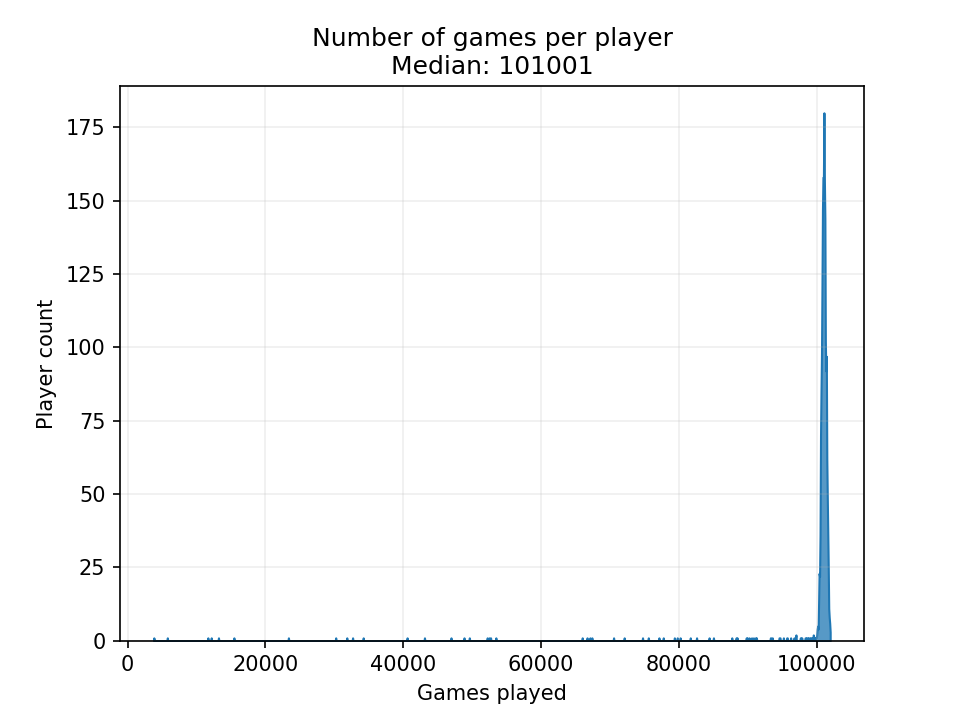
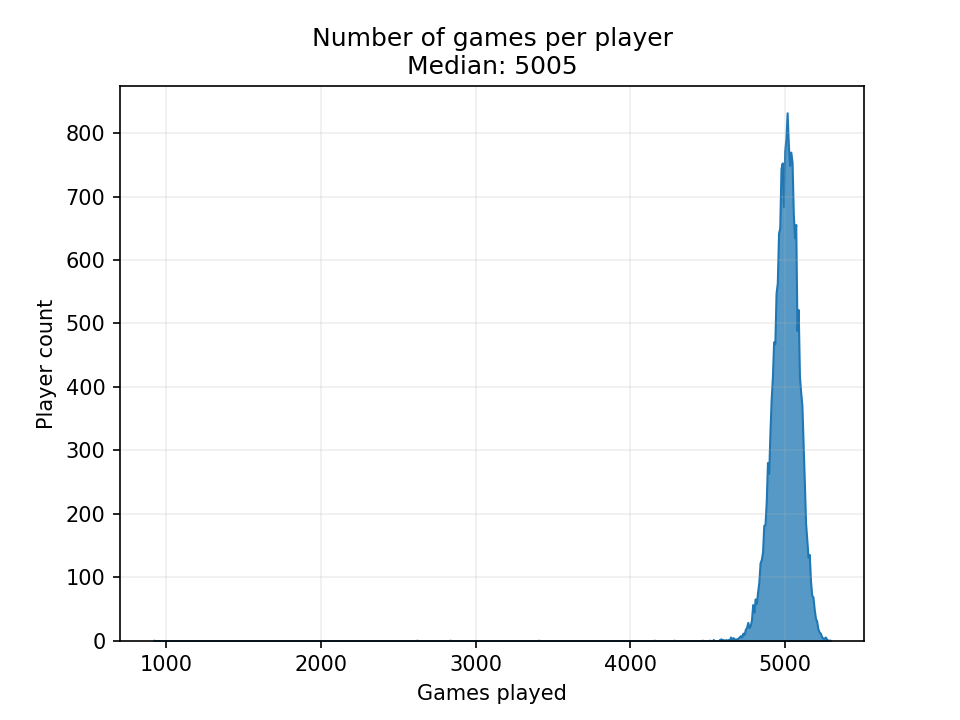
another day

diff --git a/main.cpp b/main.cpp
@@ -8,7 +8,8 @@
 
 #include "mutils.h" // adds "print" and "str" fuction templates
 
-std::vector<double> chance_differences;
+std::vector<double> prediction_difference;
+
 //
 // PLAYER CLASS
 //
@@ -18,7 +19,7 @@ public:
     // Actual player skill
     double skill;
     // MMR assigned by the matchmaker
-    double mmr = 2000;
+    double mmr = 2820 / 2.2;
     // Vector of opponent skills. It's used to define the matchmaker accuracy.
     std::vector<double> opponent_history;
     // MMR history
@@ -51,16 +52,16 @@ public:
 //
 // NAIVE MATCHMAKING STRATEGY
 //
-class naive_strategy : public MatchmakingStrategy
+class Naive_strategy : public MatchmakingStrategy
 {
-    const int offset = 1; // how much MMR changes for win/loss
+    const int offset = 10; // how much MMR changes for win/loss
 
 public:
     // Checks if the match between players would be a good based on MMR
     // More complicated version would take into account search time, latency, etc.
     bool good_match(Player &p1, Player &p2)
     {
-        return std::abs(p1.mmr - p2.mmr) < offset * 2;
+        return std::abs(p1.mmr - p2.mmr) < offset * 5;
     }
 
     // Updates MMR
@@ -70,6 +71,9 @@ public:
         winner.mmr_history.push_back(winner.mmr);
         loser.opponent_history.push_back(winner.skill);
         loser.mmr_history.push_back(loser.mmr);
+
+        winner.predicted_chances.push_back(0.5);
+        loser.predicted_chances.push_back(0.5);
 
         winner.mmr += offset;
         loser.mmr -= offset;
@@ -85,7 +89,7 @@ class ELO_strategy : public MatchmakingStrategy
     // ** TEST WITH K(player.mmr)
     // ** TRY CHANGING So diff in chances is more aggressive (more points if chances are skewed more?)
 
-    const double K = 32;
+    const double K = 10;
 
 public:
     // Checks if the match between players would be a good based on MMR
@@ -114,8 +118,7 @@ public:
         winner.mmr += K * El;
         loser.mmr -= K * El;
 
-        double diff = Ew - actual_chances;
-        chance_differences.push_back(diff * diff);
+        prediction_difference.push_back(std::abs(actual_chances - Ew));
     }
 };
 
@@ -137,7 +140,7 @@ public:
         // std::default_random_engine new_RNG(std::chrono::steady_clock::now().time_since_epoch().count()); //fixed seed for now
         std::default_random_engine new_RNG(1);
         RNG = new_RNG;
-        std::normal_distribution<> new_skill_distribution(1, 0.4); // mean, std
+        std::normal_distribution<> new_skill_distribution(2820 / 2.2, 800 / 2.2); // mean, std
         skill_distribution = new_skill_distribution;
     }
 
@@ -164,7 +167,8 @@ public:
     double get_chance(Player &p1, Player &p2)
     {
         // This depends on how we have chosen to distribute skill
-        double chance = 1 / (1 + exp(-10 * (p1.skill - p2.skill)));
+        // double chance = 1 / (1 + exp(-10 * (p1.skill - p2.skill)));
+        double chance = 1 / (1 + exp((p2.skill - p1.skill) / 173.718)); // ELO points equivalent
         // printf("P1s: %f vs P2s: %f --> %f%% for P1 \n", p1.skill, p2.skill, 100 * chance);
         return chance;
     }
@@ -172,11 +176,11 @@ public:
     void resolve_game(Player &p1, Player &p2)
     {
         // printf("Playing a game between #%p (%i MMR) and #%p (%i MMR)\n", &p1, p1.mmr, &p2, p2.mmr);
-
-        if (RNG() % 10000 <= 10000 * get_chance(p1, p2))
-            strategy->update_mmr(p1, p2, get_chance(p1, p2));
+        double p1_chance = get_chance(p1, p2);
+        if (RNG() % 10000 <= 10000 * p1_chance)
+            strategy->update_mmr(p1, p2, p1_chance);
         else
-            strategy->update_mmr(p2, p1, get_chance(p2, p1));
+            strategy->update_mmr(p2, p1, 1 - p1_chance);
     }
 
     // Runs the simulation for `number` of games
@@ -213,22 +217,6 @@ public:
             // }
         }
     }
-
-    // Calculates inaccuracy of matchmaking (sum of square of skill differences / number of players)
-    // Accurate only for the same amount of games (as early games will be more inaccurate)
-    double get_inaccuracy()
-    {
-        double total = 0;
-        for (const Player &player : players)
-        {
-            for (const double &opponent : player.opponent_history)
-            {
-                double diff = opponent - player.skill;
-                total += diff * diff;
-            }
-        }
-        return total / players.size();
-    }
 };
 
 // Saves player data into a json file for additional analysis
@@ -259,6 +247,11 @@ void save_player_data(const std::vector<Player> &players)
     }
 }
 
+std::vector<double> get_prediction_diff()
+{
+    return prediction_difference;
+}
+
 std::vector<Player> run_sim(int players, int iterations)
 {
     Timeit t;
@@ -267,8 +260,5 @@ std::vector<Player> run_sim(int players, int iterations)
     simulation.add_players(players);
     simulation.play_games(iterations);
     print("Pure simulation finished in", t.ms() / 1000, "seconds");
-    // double inaccuracy = simulation.get_inaccuracy();
-    // print("Inaccuracy:", inaccuracy);
-    // system("python analyse.py");
     return simulation.players;
 }

diff --git a/analyse.py b/analyse.py
@@ -1,28 +1,71 @@
+import math
+import statistics
+import time
+
 import matplotlib.pyplot as plt
 import seaborn as sns
-import statistics
-import math
-import time
 
 import psimulation
 
 ### RUN SIMULATION
 start = time.time()
-data = psimulation.run_simulation(2000, 100000000)
+data = psimulation.run_simulation(20000, 50000000)
+prediction_differences = psimulation.export_prediction_diff()
 print(f"Simulation finished in {time.time()-start:.3f} seconds")
-start = time.time()
 
 ### PLOTTING
+start = time.time()
 plt.rcParams['figure.dpi'] = 150
 
 
 def chance_skill(diff):
     """ Returns the chance for a player to win based on skill difference"""
-    return 1 / (1 + math.exp(-10 * (diff)))
+    return 1 / (1 + math.exp(-diff / 173.718))  # ELO points
+
+
+## PREDICTION DIFFERENCES
+def plot_prediction_differences():
+    plt.figure().clear()
+    factor = 50
+    L = int(len(prediction_differences) / factor)
+    means = []
+    stdevs = [[], []]
+    x = []
+    for i in range(factor):
+        slice = prediction_differences[L * i:L * (i + 1)]
+        means.append(statistics.mean(slice))
+        stdevs[0].append(means[-1] - statistics.stdev(slice))
+        stdevs[1].append(means[-1] + statistics.stdev(slice))
+        x.append(L * i)
+
+    fig, ax = plt.subplots(1, 1)
+    ax.text(0,
+            means[0] + 0.01,
+            f"{means[0]:.2f}",
+            color="#1968cf",
+            ha="center")
+    ax.text(x[-1],
+            means[-1] + 0.01,
+            f"{means[-1]:.2f}",
+            color="#1968cf",
+            ha="center")
+
+    ax.plot(x, means)
+    ax.fill_between(x, stdevs[0], stdevs[1], color="#1968cf", alpha=0.2)
+    ax.set_ylabel("Error in matchmaking")
+    ax.set_xlabel("Games")
+    plt.grid(alpha=0.2)
+    ax.set_title("How matchmaking improves (moving average of errors)")
+    plt.tight_layout()
+    plt.savefig("prediction_differences.png")
+
+
+plot_prediction_differences()
 
 
 ## PLAYER HISTORY
 def plot_mmr_history(DATAVALUES=6):
+    plt.figure().clear()
     unique_opponents = [len(set(i["opponent_history"])) for i in data]
     extremes = [
         p for p in sorted(data, key=lambda x: x["skill"], reverse=True)
@@ -121,7 +164,6 @@ def plot_mmr_history(DATAVALUES=6):
     ax[1].set_ylabel("Opponent skill")
     ax[1].set_xlabel("Games")
     ax[1].set_xlim(0, ax[1].get_xlim()[1] * 1.1)
-    ax[1].set_ylim(-0.15, 2)
     ax[0].set_title(
         "How player MMR and opponents change\n"
         f"Average unique opponents per player: {statistics.mean(unique_opponents)}"
@@ -144,10 +186,15 @@ def plot_other():
     ## MMR - SKILL
     plt.figure().clear()
     plt.plot(skills, mmrs)
+    plt.plot([min(skills), max(skills)],
+             [min(skills), max(skills)],
+             color="black",
+             linewidth=0.5)
     plt.title("MMR - Skill relation")
     plt.xlabel("Player skill")
     plt.ylabel("Player MMR")
     plt.grid(alpha=0.2)
+    plt.tight_layout()
     plt.savefig("MMR-Skill.png")
 
     ## Player skill dist

diff --git a/sim.cpp b/sim.cpp
@@ -7,10 +7,12 @@ static char module_docstring[] =
 
 // Declare first functions
 static PyObject *run_simulation(PyObject *self, PyObject *args);
+static PyObject *export_prediction_diff(PyObject *self, PyObject *args);
 
 /* Module methods (how it's called for python | how it's called here | arg-type | docstring) */
 static PyMethodDef module_methods[] = {
     {"run_simulation", run_simulation, METH_VARARGS, "Runs a simulation with `players` and `iterations`"},
+    {"export_prediction_diff", export_prediction_diff, METH_VARARGS, "get prediction differences"},
     {NULL, NULL, 0, NULL} // Last needs to be this
 };
 
@@ -62,7 +64,7 @@ static PyObject *run_simulation(PyObject *self, PyObject *args)
         return NULL;
 
     // Run simulation
-    std::vector<Player> player_data = run_sim(players, iterations);
+    std::vector<Player> &player_data = run_sim(players, iterations);
 
     // Prepare data to be send away
     PyObject *Data = PyList_New(0);
@@ -71,6 +73,17 @@ static PyObject *run_simulation(PyObject *self, PyObject *args)
         PyList_Append(Data, Py_BuildValue("O", get_player_data(p)));
     }
     return Data;
+}
+
+static PyObject *export_prediction_diff(PyObject *self, PyObject *args)
+{
+    std::vector<double> &prediction_diff = get_prediction_diff();
+    PyObject *pylist = PyList_New(0);
+    for (const double &i : prediction_diff)
+    {
+        PyList_Append(pylist, Py_BuildValue("d", i));
+    }
+    return pylist;
 }
 
 // Now that all mess is initialized, lets look at actual functions

diff --git a/mutils.h b/mutils.h
@@ -148,6 +148,7 @@ class Timeit
     std::chrono::high_resolution_clock::time_point start;
 
 public:
+    // Class methods defined in header files are inlined by default
     Timeit()
     {
         start = std::chrono::high_resolution_clock::now();

diff --git a/README.md b/README.md
@@ -1,8 +1,9 @@
-For reference:
-![Screenshot](./mmr_scaling_sc2.png)
 ![Screenshot](./Skill_dist.png)
 ![Screenshot](./MMR_dist.png)
+![Screenshot](./MMR-Skill.png)
+![Screenshot](./prediction_differences.png)
 ![Screenshot](./Player_extremes.png)
 ![Screenshot](./Player_history.png)
 ![Screenshot](./Games_played.png)
-![Screenshot](./MMR-Skill.png)
+For reference only:
+![Screenshot](./mmr_scaling_sc2.png).
